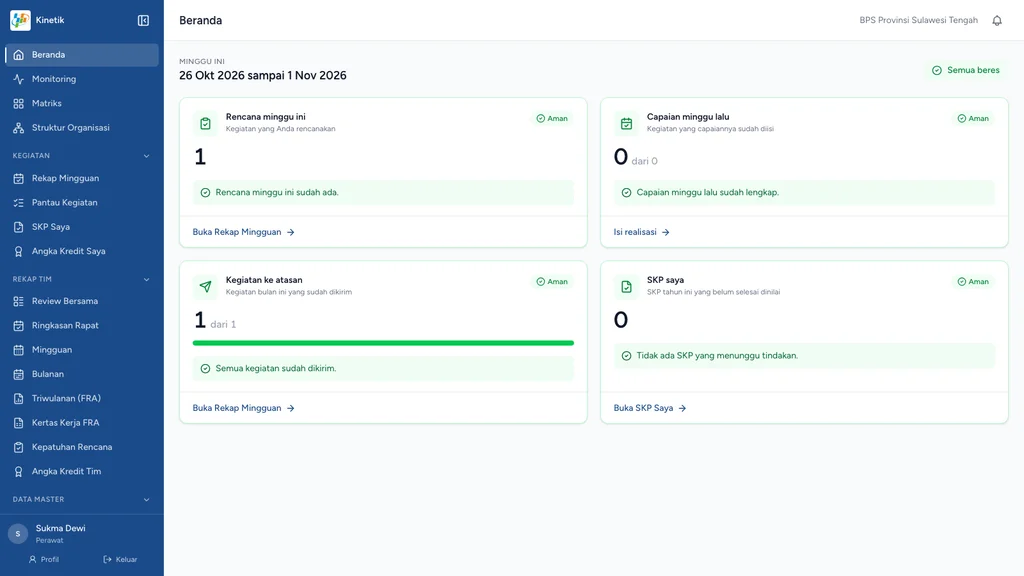
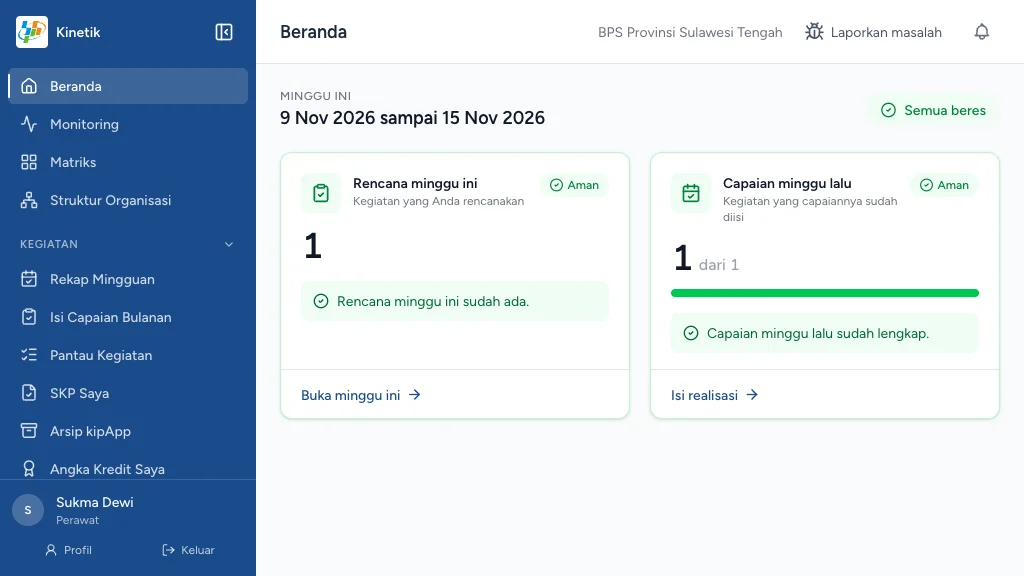
feat: Kirim ke atasan only per quarter with a completeness check; Beranda guide screenshot retaken; guide text updated

diff --git a/resources/js/data/guide.ts b/resources/js/data/guide.ts
@@ -138,13 +138,11 @@ export const SHOTS = {
     },
     anggotaBeranda: {
         src: '/images/pedoman/anggota-beranda.webp',
-        alt: 'Beranda anggota: empat kotak, yaitu rencana minggu ini, capaian minggu lalu, kegiatan ke atasan, dan SKP saya',
+        alt: 'Beranda anggota: dua kotak, yaitu rencana minggu ini dan capaian minggu lalu',
         width: 1024, height: 576,
         markers: [
-            { n: 1, x: 56, y: 17, label: 'Rencana minggu ini. Merah atau kuning bila belum ada rencana.' },
-            { n: 2, x: 97, y: 17, label: 'Berapa kegiatan minggu lalu yang capaiannya sudah diisi, dan mana yang belum.' },
-            { n: 3, x: 56, y: 47, label: 'Kegiatan bulan ini yang sudah dikirim ke atasan, dan yang belum.' },
-            { n: 4, x: 97, y: 47, label: 'SKP tahun ini yang belum selesai dinilai.' },
+            { n: 1, x: 60, y: 26, label: 'Rencana minggu ini. Merah atau kuning bila belum ada rencana.' },
+            { n: 2, x: 96, y: 26, label: 'Berapa kegiatan minggu lalu yang capaiannya sudah diisi, dan mana yang belum.' },
         ],
     },
     anggotaAngkaKredit: {
@@ -427,7 +425,7 @@ export const GUIDE_FLOWS: GuideFlow[] = [
                     'Selesai mengerjakan? Tekan "Tandai selesai". Uraian capaian wajib minimal 10 karakter saat ini. Kinetik mengirim progres 100%, uraian capaian dan tautan bukti ke kipApp. Tombol "Simpan realisasi" hanya menyimpan di Kinetik.',
                     'Kegiatan yang sudah ada di kipApp dan belum dikirim ke atasan bisa diubah, atau dihapus lewat tombol "Hapus kegiatan" di detail. Kinetik menghapusnya juga di kipApp, setelah bertanya dulu. Kegiatan yang sudah dikirim ke atasan tidak bisa dihapus: tekan "Batalkan kirim" dulu, lalu hapus. Jika SKP triwulan sudah dikirim untuk dinilai, kegiatan terkunci dan alasannya tampil di detail.',
                     'RK dan projek bisa diganti selama kegiatan belum dikirim ke atasan, sama seperti form ubah di kipApp sendiri: buka kegiatannya, tekan "Ganti RK", lalu pilih RK lain. Untuk kegiatan yang sudah ada di kipApp, RK baru harus termasuk RK Anda di SKP triwulan itu. Bila tidak, Kinetik menolak dan tidak mengubah apa pun. Kegiatan yang sudah dikirim ke atasan tidak bisa berganti RK: tekan "Batalkan kirim" dulu.',
-                    'Mengirim ke atasan: centang beberapa kegiatan di tabel, lalu tekan "Kirim ke atasan (n)". Kinetik bertanya dulu, lalu mengirim semuanya sekaligus. "Batalkan kirim (n)" mengembalikan kegiatan yang sudah terkirim. Kirim dan batal kirim sudah diuji langsung di kipApp. Aturannya sama dengan kipApp: hanya berlaku selama SKP triwulan berstatus "Sedang dibuat".',
+                    'Kirim ke atasan tidak ada di Rekap Mingguan. Pengiriman dilakukan sekali per triwulan di menu Kegiatan → Kirim ke Atasan, supaya orang tidak mengirim sebelum lengkap. Di Rekap Mingguan, centang beberapa kegiatan lalu pilih "Aksi kegiatan terpilih" → "Kirim ke kipApp" untuk mengirim kegiatan yang sudah lengkap ke kipApp.',
                     'Jika progres diubah langsung di kipApp, Kinetik mengikuti kipApp pada sinkronisasi berikutnya.',
                 ],
                 tip: 'Jika kata sandi SSO Anda ditolak BPS, Kinetik berhenti mengakses kipApp atas nama Anda dan meminta Anda memasukkannya lagi saat masuk. Kinetik tidak mencoba ulang dengan kata sandi yang sama.',
@@ -438,7 +436,7 @@ export const GUIDE_FLOWS: GuideFlow[] = [
                 route: 'quarter-send.index',
                 body: [
                     'Halaman ini seperti halaman SKP triwulan di kipApp: semua kegiatan Anda pada satu triwulan, dikelompokkan per RK. Pilih triwulan di atas (TW I sampai IV). Empat kartu menunjukkan jumlah kegiatan yang belum dikirim, sudah dikirim, belum bisa dikirim, dan semuanya. Klik kartu untuk menyaring.',
-                    'Centang kegiatan yang mau dikirim, atau tekan "Pilih semua yang belum dikirim", lalu tekan "Kirim ke atasan". Kinetik menanyakan dulu, lalu mengirim ke kipApp dalam beberapa kelompok bila jumlahnya banyak. "Batalkan kirim" menarik kembali kegiatan yang sudah dikirim selama SKP triwulannya masih Sedang dibuat.',
+                    'Centang kegiatan yang mau dikirim, atau tekan "Pilih semua yang belum dikirim". Bila ada yang belum punya capaian, bukti dukung, uraian, atau progres 100, halaman menampilkan daftarnya lebih dulu, karena kegiatan yang sudah dikirim tidak bisa diubah. Lalu tekan "Kirim ke atasan". Kinetik menanyakan dulu, lalu mengirim ke kipApp dalam beberapa kelompok bila jumlahnya banyak. "Batalkan kirim" menarik kembali kegiatan yang sudah dikirim selama SKP triwulannya masih Sedang dibuat.',
                     'Kegiatan yang belum bisa dikirim punya dua sebab: belum ada di kipApp (kirim dulu dari Rekap Mingguan), atau SKP triwulannya sudah dikunci. Menu ini hanya muncul bila admin menyalakan "Kirim kegiatan ke atasan".',
                 ],
                 tip: 'Mengirim kegiatan ke atasan bukan mengirim SKP untuk dinilai. SKP triwulan dikirim di menu SKP Saya.',
@@ -1026,7 +1024,7 @@ export const GUIDE_STATUS: GuideStatusFlow[] = [
             { label: 'Direncanakan', tone: 'gray', meaning: 'Kegiatan ada di Kinetik, belum ada di kipApp.', next: 'Setelah progres 100, capaian, dan bukti dukung terisi, dan tanggal mulainya tiba, Kinetik membuatnya di kipApp otomatis, dimulai pukul 05.10 WITA dan diulang tiap jam kerja. Atau tekan "Kirim ke kipApp". Kegiatan hasil impor Excel tidak dikirim otomatis: Anda yang menekan tombolnya.' },
             { label: 'Ada di kipApp', tone: 'blue', meaning: 'Kegiatan sudah dibuat di kipApp dengan progres 0.', next: 'Kerjakan, lalu isi form Realisasi (capaian, progres, bukti, uraian).' },
             { label: 'Berjalan', tone: 'amber', meaning: 'Progres sudah di atas 0 tetapi belum 100.', next: 'Lanjutkan mengisi Realisasi. Saat selesai, tekan "Tandai selesai".' },
-            { label: 'Selesai, belum dikirim', tone: 'green', meaning: 'Progres 100 dan uraian sudah ada, tetapi belum dikirim ke atasan.', next: 'Tekan "Kirim ke atasan" di detail, atau centang beberapa kegiatan lalu "Kirim ke atasan (n)".' },
+            { label: 'Selesai, belum dikirim', tone: 'green', meaning: 'Progres 100 dan uraian sudah ada, tetapi belum dikirim ke atasan.', next: 'Dikirim ke atasan sekali per triwulan lewat menu Kirim ke Atasan, setelah dicek kelengkapannya.' },
             { label: 'Terkirim ke atasan', tone: 'emerald', meaning: 'Atasan sudah menerima kegiatan untuk dinilai.', next: 'Kegiatan tidak bisa diubah atau dihapus. Hanya "Masukan ke capaian SKP" yang boleh diubah. Salah kirim? Tekan "Batalkan kirim".' },
         ],
         sides: [

diff --git a/resources/js/Pages/Kinetik/RekapMingguan.vue b/resources/js/Pages/Kinetik/RekapMingguan.vue
@@ -99,6 +99,7 @@ const shiftYear = (delta: number) => to({ year: props.year + delta });
                 <Button variant="ghost" size="sm" class="-ml-2" @click="toWeeks"><ChevronLeft class="mr-1 h-4 w-4" aria-hidden="true" /> Minggu di {{ monthName }}</Button>
                 <h2 class="text-lg font-semibold tabular-nums">{{ range(weekStart, weekEnd) }}</h2>
             </div>
+            <!-- Kirim ke atasan is not offered here: it is done once per quarter on its own page, after a check (the spv, 9 Nov 2026). -->
             <!-- Like kipApp's Pelaksanaan: a toolbar (Refresh, search, bulk action, Tambah) over one table. -->
             <div class="mb-4 flex flex-wrap items-center gap-3">
                 <Button variant="outline" @click="refresh"><RefreshCw class="mr-1.5 h-4 w-4" aria-hidden="true" /> Refresh</Button>
@@ -113,10 +114,6 @@ const shiftYear = (delta: number) => to({ year: props.year + delta });
                     </DropdownMenuTrigger>
                     <DropdownMenuContent align="start">
                         <DropdownMenuItem :disabled="!selection.toPush.value.length" @select="bulk.ask('push')">Kirim ke kipApp ({{ selection.toPush.value.length }})</DropdownMenuItem>
-                        <template v-if="canSendToAtasan">
-                            <DropdownMenuItem :disabled="!selection.toSend.value.length" @select="bulk.ask('send')">Kirim ke atasan ({{ selection.toSend.value.length }})</DropdownMenuItem>
-                            <DropdownMenuItem :disabled="!selection.toCancel.value.length" @select="bulk.ask('cancel')">Batalkan kirim ({{ selection.toCancel.value.length }})</DropdownMenuItem>
-                        </template>
                     </DropdownMenuContent>
                 </DropdownMenu>
                 <Button class="ml-auto" data-tour="add-item" @click="add"><Plus class="mr-1 h-4 w-4" aria-hidden="true" /> Tambah</Button>
@@ -141,16 +138,16 @@ const shiftYear = (delta: number) => to({ year: props.year + delta });
                     Klik kegiatan yang belum diisi, lalu isi capaian, uraian, dan bukti dukung.
                     <button type="button" class="ml-1 underline" @click="onlyRealisasi = true">Tampilkan hanya yang belum diisi</button>
                 </p>
-                <PlanItemTable :rows="lastRows" :can-send-to-atasan="canSendToAtasan" :selected="selection.selected.value" :empty-text="onlyRealisasi ? 'Semua kegiatan minggu lalu sudah terisi realisasinya.' : 'Tidak ada kegiatan minggu lalu.'" @open="openIn(lastWeekStart)($event)" @edit="edit" @copy="copy" @extend="extend" @remove="removing = $event" @toggle="selection.toggle" @toggle-all="selection.toggleAll" />
+                <PlanItemTable :rows="lastRows" :can-send-to-atasan="false" :selected="selection.selected.value" :empty-text="onlyRealisasi ? 'Semua kegiatan minggu lalu sudah terisi realisasinya.' : 'Tidak ada kegiatan minggu lalu.'" @open="openIn(lastWeekStart)($event)" @edit="edit" @copy="copy" @extend="extend" @remove="removing = $event" @toggle="selection.toggle" @toggle-all="selection.toggleAll" />
             </section>
 
             <section v-if="!onlyRealisasi" class="rounded-lg border bg-white" aria-labelledby="h-now">
                 <h2 id="h-now" class="border-b px-4 py-3 text-sm font-semibold">Rencana minggu ini <span class="font-normal text-gray-600">{{ range(weekStart, weekEnd) }}</span></h2>
-                <PlanItemTable :rows="thisRows" :can-send-to-atasan="canSendToAtasan" :selected="selection.selected.value" empty-text="Belum ada rencana. Tekan “Tambah”." @open="openIn(weekStart)($event)" @edit="edit" @copy="copy" @extend="extend" @remove="removing = $event" @toggle="selection.toggle" @toggle-all="selection.toggleAll" />
+                <PlanItemTable :rows="thisRows" :can-send-to-atasan="false" :selected="selection.selected.value" empty-text="Belum ada rencana. Tekan “Tambah”." @open="openIn(weekStart)($event)" @edit="edit" @copy="copy" @extend="extend" @remove="removing = $event" @toggle="selection.toggle" @toggle-all="selection.toggleAll" />
             </section>
 
             <PlanItemFormDialog v-model:open="formOpen" :item="editing" :copy-of="copying" :skp-year="skpYear" :rk-options="rkOptions ?? []" :project-options="projectOptions ?? []" :default-date="weekStart ?? ''" />
-            <PlanItemDetailDialog :item="detail" :week-of="detailWeek" :can-send-to-atasan="canSendToAtasan" @close="detailId = null" @edit="edit" @copy="copy" />
+            <PlanItemDetailDialog :item="detail" :week-of="detailWeek" :can-send-to-atasan="false" @close="detailId = null" @edit="edit" @copy="copy" />
             <ConfirmDialog
                 :open="removing !== null"
                 :title="removing?.in_kipapp ? 'Hapus kegiatan' : 'Batalkan kegiatan'"

diff --git a/resources/js/Pages/Kinetik/QuarterSend.vue b/resources/js/Pages/Kinetik/QuarterSend.vue
@@ -57,6 +57,12 @@ const selection = useRowSelection(() => props.rows);
 const bulk = useBulkSend(() => ({ send: selection.toSend.value.map((r) => r.id), cancel: selection.toCancel.value.map((r) => r.id), push: selection.toPush.value.map((r) => r.id) }), selection.clear);
 const detail = computed(() => props.rows.find((r) => r.id === detailId.value) ?? null);
 
+// A check before sending, as the spv asked: what is still missing on the kegiatan that are about to go to the atasan. A sent kegiatan
+// cannot be changed, and people forget they sent it. Sending stays possible; this only says what is lacking.
+const lacking = computed(() => selection.toSend.value
+    .map((r) => ({ row: r, missing: [r.capaian === null || r.capaian === undefined ? 'capaian' : null, !r.evidence_url ? 'bukti dukung' : null, !(r.capaian_note ?? '').trim() ? 'uraian capaian' : null, r.progress < 100 ? 'progres belum 100' : null].filter((m): m is string => m !== null) }))
+    .filter((x) => x.missing.length));
+
 const selectAllUnsent = () => selection.toggleAll(props.rows.filter(isUnsent), true);
 const openWeek = (item: PlanItemRow) => router.get(route('weekly.index', { week: item.date_start }));
 const go = (quarter: number) => router.get(route('quarter-send.index'), { quarter }, { preserveScroll: true });
@@ -98,6 +104,15 @@ const go = (quarter: number) => router.get(route('quarter-send.index'), { quarte
                 <Button :disabled="!selection.toSend.value.length" @click="bulk.ask('send')">Kirim ke atasan ({{ formatNumber(selection.toSend.value.length) }})</Button>
                 <Button variant="outline" :disabled="!selection.toCancel.value.length" @click="bulk.ask('cancel')">Batalkan kirim ({{ formatNumber(selection.toCancel.value.length) }})</Button>
             </template>
+        </div>
+
+        <div v-if="lacking.length" class="mb-4 rounded-lg border border-amber-200 bg-amber-50 px-4 py-3 text-sm text-amber-900" role="alert">
+            <p class="font-medium">{{ formatNumber(lacking.length) }} dari {{ formatNumber(selection.toSend.value.length) }} kegiatan yang dipilih belum lengkap:</p>
+            <ul class="mt-1 list-disc pl-5">
+                <li v-for="x in lacking.slice(0, 5)" :key="x.row.id">{{ x.row.description }} <span class="text-amber-800">(belum ada {{ x.missing.join(', ') }})</span></li>
+            </ul>
+            <p v-if="lacking.length > 5" class="mt-1 text-xs">Dan {{ formatNumber(lacking.length - 5) }} lainnya. Kegiatan yang sudah dikirim tidak bisa diubah, jadi lengkapi dulu atau batalkan pilihannya.</p>
+            <p v-else class="mt-1 text-xs">Kegiatan yang sudah dikirim tidak bisa diubah, jadi lengkapi dulu atau batalkan pilihannya.</p>
         </div>
 
         <p v-if="!groups.length" class="rounded-md border border-dashed bg-gray-50 py-10 text-center text-sm text-gray-500">Tidak ada kegiatan pada tampilan ini.</p>

diff --git a/resources/js/Components/Kinetik/PlanItemTable.vue b/resources/js/Components/Kinetik/PlanItemTable.vue
@@ -24,7 +24,7 @@ const emit = defineEmits<{
     toggle: [id: number, on: boolean];
     'toggle-all': [rows: PlanItemRow[], on: boolean];
 }>();
-const selectable = computed(() => props.rows.filter(r => r.can_send || r.can_push));
+const selectable = computed(() => props.rows.filter(r => (props.canSendToAtasan && r.can_send) || r.can_push));
 const allChecked = computed(() => selectable.value.length > 0 && selectable.value.every(r => props.selected.includes(r.id)));
 const showChecks = computed(() => props.canSendToAtasan || selectable.value.length > 0);
 const { formatDate } = useDateFormat();
@@ -56,7 +56,7 @@ const canChange = (row: PlanItemRow) => row.can_edit && !row.sent;
             <tbody>
                 <tr v-for="(row, i) in rows" :key="row.id" class="cursor-pointer border-b align-top transition-colors duration-150 hover:bg-gray-50 focus-visible:bg-gray-50 focus-visible:outline-none" tabindex="0" @click="emit('open', row)" @keydown.enter="emit('open', row)">
                     <td v-if="showChecks" class="w-8 px-3 py-3" @click.stop>
-                        <Checkbox :model-value="selected.includes(row.id)" :disabled="!(row.can_send || row.can_push)" :aria-label="`Pilih ${row.description}`" @update:model-value="(v: boolean | 'indeterminate') => emit('toggle', row.id, v === true)" />
+                        <Checkbox :model-value="selected.includes(row.id)" :disabled="!((canSendToAtasan && row.can_send) || row.can_push)" :aria-label="`Pilih ${row.description}`" @update:model-value="(v: boolean | 'indeterminate') => emit('toggle', row.id, v === true)" />
                     </td>
                     <td class="px-3 py-3 tabular-nums text-gray-600">{{ i + 1 }}</td>
                     <td class="whitespace-nowrap px-3 py-3 tabular-nums">
